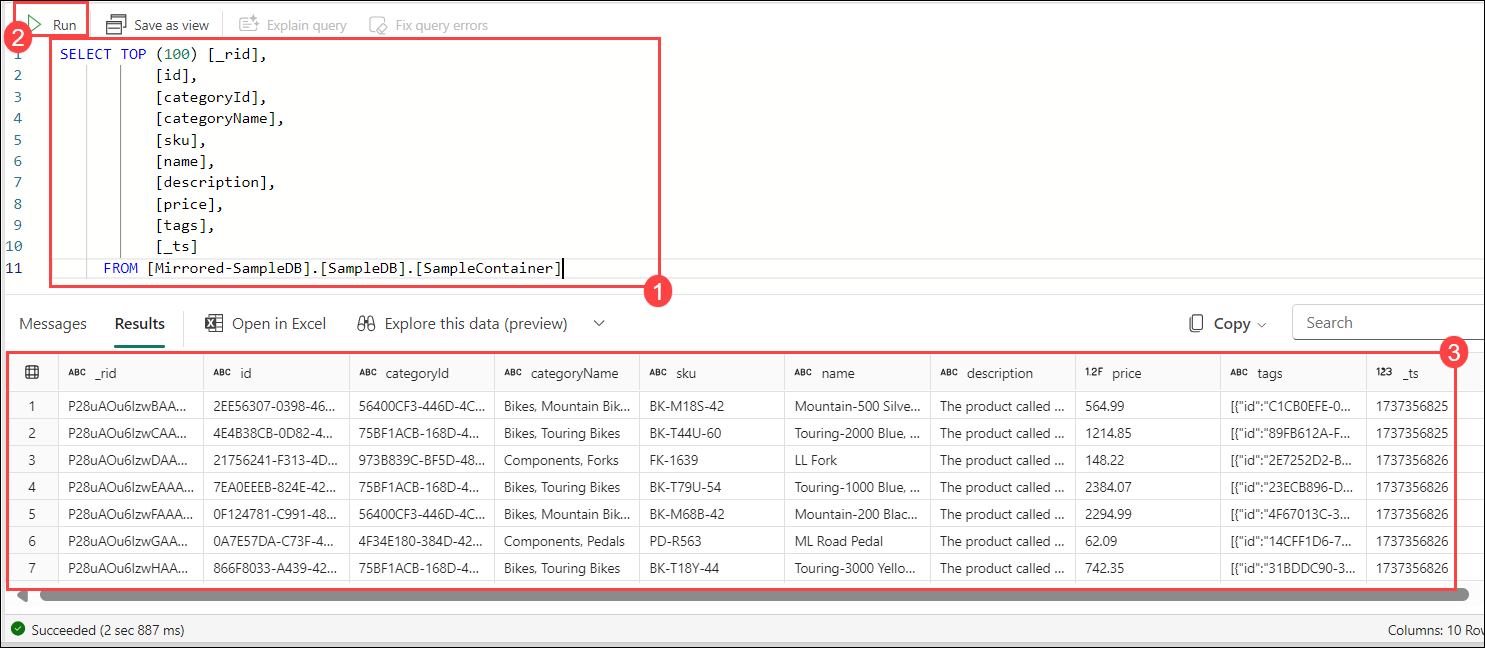
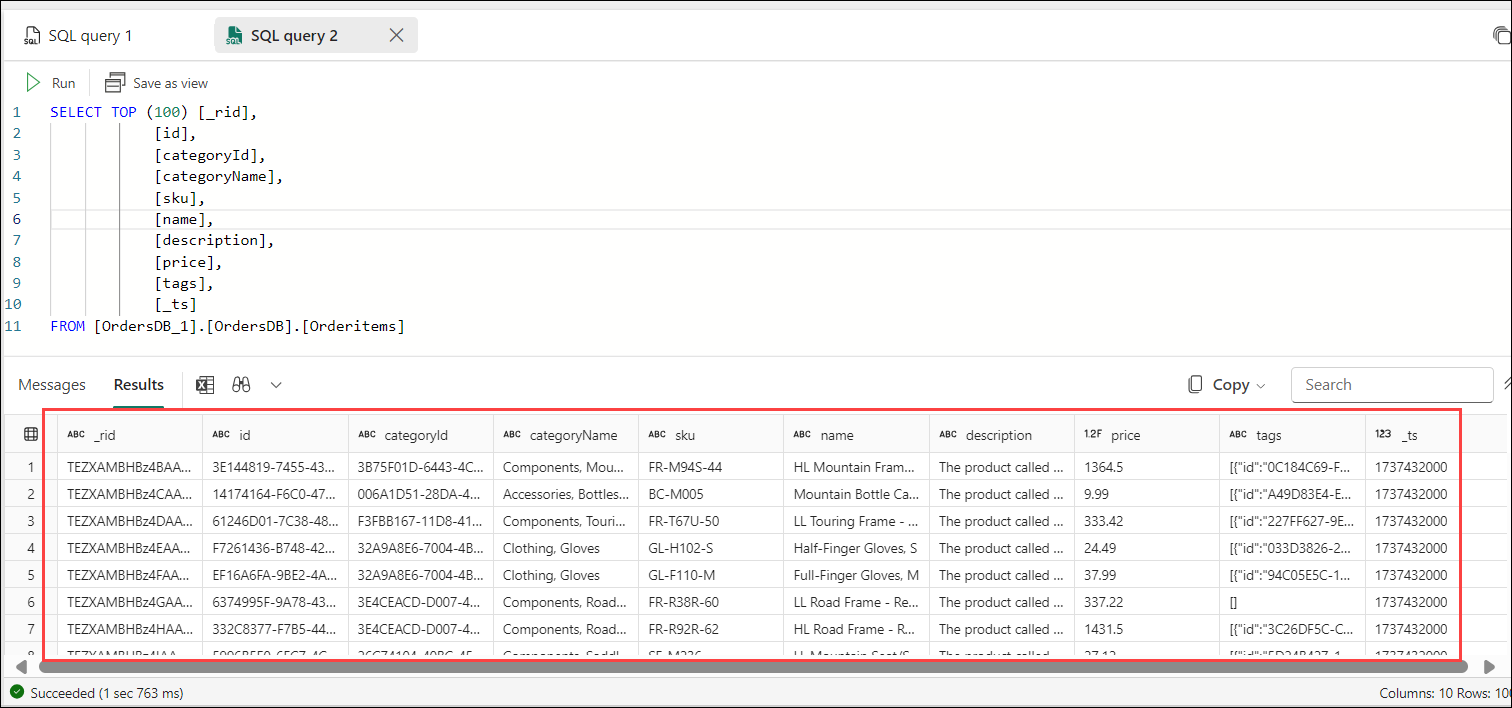
Commits

Changed region(s): [[0.0, 0.0, 1.0, 1.0], [0.9912, 0.0309, 1.0, 0.0617], [0.4337, 0.0617, 0.4646, 0.0926]]

diff --git a/instructions/labs/Lab-02.md b/instructions/labs/Lab-02.md
@@ -1,4 +1,7 @@
-# Configure Your Azure Cosmos DB Account
+# Lab –02 Configure Microsoft Fabric mirrored database for Azure Cosmos DB
+
+
+In this lab, you will configure an Azure Cosmos DB account and set up a mirrored database in Azure Fabric for data replication. You will connect Fabric to the source Cosmos DB and initiate the mirroring process, ensuring proper synchronization by monitoring its progress. Once the mirroring is complete, you will query the source database directly from Fabric. You will then analyze the mirrored database to gain insights and validate the replication process. Finally, you will explore how to leverage the mirrored data for reporting and analytics.
 
 ## Ensure the Source Azure Cosmos DB Account is Correctly Configured
 
@@ -12,9 +15,14 @@
 
       ![](../media/Lab-02/launch-quick.png)
 
-4. This action will create a sample database. Leave all the settings as default, then click **OK** to proceed, Once after its created you can see the tables that's created
+4. Give the Databaseid name as **OrderDB** and container id as **Orderitems** . Leave all the settings as default, then click **OK** to proceed, Once after its created you can see the tables that's created
 
-    ![](../media/Lab-02/create-1.png)
+    ![](../media/Lab-02/ordersdb-new.png)
+
+
+5. Choose **launch quick start** and create an other container id as **Orderstatus**. Select use existing and from the drop-down choose **OrderDB**. Then click **OK**
+
+      ![](../media/Lab-02/orderdb-exist.png)
 
 5. Ensure that the networking options are set to **Public network access for all networks** from the networking tab.
 
@@ -56,7 +64,7 @@
 
 3. Under choose data , click on next and **connect**
 
-    ![](../media/Lab-02/sample-container.png)
+    ![](../media/Lab-02/orderdb.png)
   
 4. Under destination , Give a name **Mirrored-SampleDB** and click on create 
 
@@ -74,7 +82,7 @@
 
 2. After a few minutes, the status should change to **Running**, indicating that the containers are being synchronized.
 
-    ![](../media/Lab-02/mirrored-db.png)
+   ![](../media/Lab-02/mointor-replication.png)
 
 
    - **Tip**: If you can't find the containers and the corresponding replication status, refresh the pane after a few seconds. In rare cases, transient error messages may appear; you can safely ignore them and refresh.
@@ -86,15 +94,11 @@
 
 1. Navigate to the mirrored database in the Fabric portal.
 
-    ![](../media/Lab-02/mirrored-db-1.png)
+    ![](../media/Lab-02/mirrored-db02.png)
 
 2. Select **View**, then **Source database**. This action opens the Azure Cosmos DB data explorer with a read-only view of the source database.
 
     ![](../media/Lab-02/source-explorer-query.png)
-
-3. Select a container, then open the context menu and select **New SQL query**.
-
-    ![](../media/Lab-02/new-sql-query.png)
 
     
   >**Note**: All the reads on the source database are routed to Azure and will consume Request Units (RUs) allocated on the account.
@@ -110,7 +114,9 @@
 
 3. Each container in the source database should be represented in the SQL analytics endpoint as a warehouse table.
 
-4. Select any table, open the context menu, then select **New SQL Query**, and select **Select Top 100**.
+4. Select Orderstatus, open the context menu, then select **New SQL Query**, and select **Select Top 100**.The query will execute and return 100 records in the selected table . 
+
+   - Now, Select Orderitems then select **New SQL Query**, and select **Select Top 100**.
 
    ![](../media/Lab-02/new-sql-query.png)
 
@@ -132,8 +138,6 @@
 
      ![](../media/Lab-02/results-1.png)
 
-5. The query will execute and return 100 records in the selected table.
-
 6. Open the context menu for the same table, select **New SQL Query**.
 
      ```
@@ -153,7 +157,7 @@
  
    ```
 
-   [](../media/Lab-02/results-1.png)
+   ![](../media/Lab-02/results-1.png)
 
 1. Select the query and then select Save as view. Give the view a unique name. You can access this view at any time from the Fabric portal.
 
@@ -161,12 +165,51 @@
 
 1. Return back to the mirrored database in the Fabric portal.
 
-1. Select New visual query. Use the query editor to build complex queries.
+1. Select New visual query. Use the query editor .
+
+     ![](../media/Lab-02/new-visual-query.png)
+
+1. Drag and Drop the orderstatus and orderitem tables into the right query editor
+
+     ![](../media/Lab-02/both-orders.png)
+
+1. Click on the + icon from the first query and choose merge query as new
+
+     ![](../media/Lab-02/merge-as-view.png)
+
+1. From the right table for merge choose Orderitemsand select id and click on ok
+
+      ![](../media/Lab-02/merge-query-011.png)
+
+1. The visual query once merged
+
+     ![](../media/Lab-02/order-final.png)
 
 
-1. Screenshot of the query editor for both text-based and visual queries in Fabric.
+1. From the Tool bar choose reporting tab
+
+     ![](../media/Lab-02/new-report-1.png)
+
+1. When the New data with all avaialble data. Pop-up appears click on continue
+
+      ![](../media/Lab-02/new-report-0.png)
+
+1. Expand the Data Pane, Select Sum of _ts, categoryid and sum of price
+
+     ![](../media/Lab-02/data-panel.png)
+
+1. From the visualization pane, choose Clustered Column chart
+
+     ![](../media/Lab-02/choosevis.png)
 
 
-Build BI reports on the SQL queries or views
-Select the query or view and then select Explore this data (preview). This action explores the query in Power BI directly using Direct Lake on OneLake mirrored data.
-Edit the charts as needed and save the report.
+1. The final report of the orderDB .Save as **Orders-reports**
+
+    ![](../media/Lab-02/final-report.png)
+
+    ![](../media/Lab-02/saveas.png)
+
+
+# Review
+
+  In this lab, you configured your Azure Cosmos DB account and created a mirrored database in Azure Fabric for data replication. You connected Fabric to the source Cosmos DB, started the mirroring process, and monitored its progress. Once synchronized, you queried the source database directly from Fabric. Finally, you analyzed the mirrored database in Fabric for insights and reporting.
